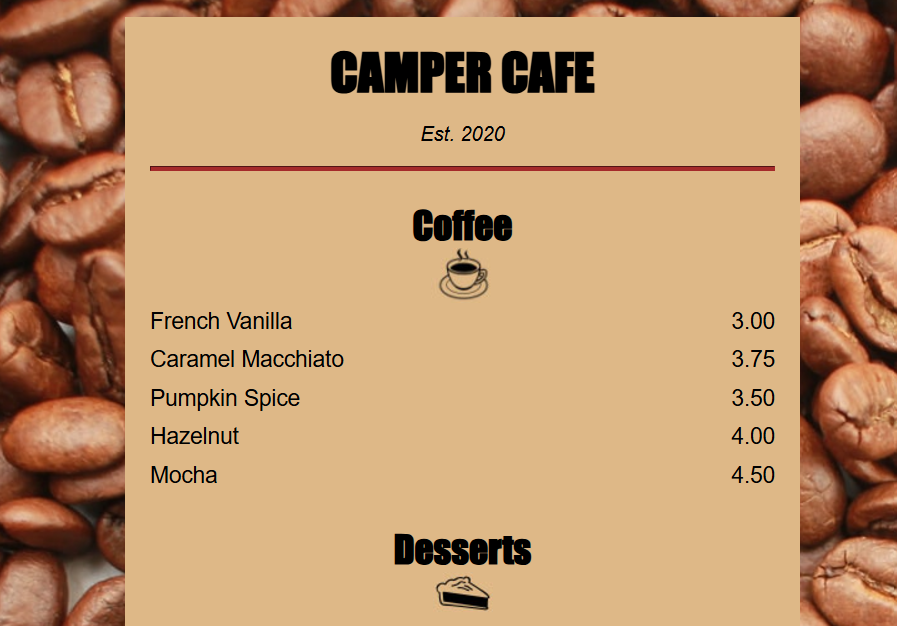
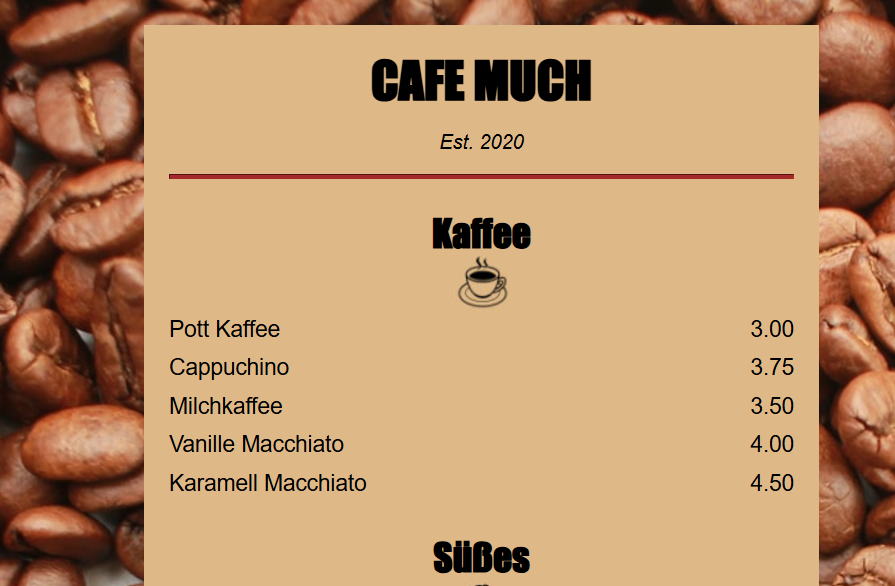
Add files via upload

diff --git a/public/FreeCodeCamp/2. Cafe Menu/index.html b/public/FreeCodeCamp/2. Cafe Menu/index.html
@@ -1,5 +1,5 @@
 <!DOCTYPE html>
-<html lang="en">
+<html lang="de">
   <head>
     <meta charset="utf-8" />
     <meta name="viewport" content="width=device-width, initial-scale=1.0" />
@@ -9,52 +9,49 @@
   <body>
     <div class="menu">
       <main>
-        <h1>CAMPER CAFE</h1>
+        <h1>CAFE MUCH</h1>
         <p class="established">Est. 2020</p>
         <hr>
         <section>
-          <h2>Coffee</h2>
+          <h2>Kaffee</h2>
           <img src="https://cdn.freecodecamp.org/curriculum/css-cafe/coffee.jpg" alt="coffee icon"/>
           <article class="item">
-            <p class="flavor">French Vanilla</p><p class="price">3.00</p>
+            <p class="flavor">Pott Kaffee</p><p class="price">3.00</p>
           </article>
           <article class="item">
-            <p class="flavor">Caramel Macchiato</p><p class="price">3.75</p>
+            <p class="flavor">Cappuchino</p><p class="price">3.75</p>
           </article>
           <article class="item">
-            <p class="flavor">Pumpkin Spice</p><p class="price">3.50</p>
+            <p class="flavor">Milchkaffee</p><p class="price">3.50</p>
           </article>
           <article class="item">
-            <p class="flavor">Hazelnut</p><p class="price">4.00</p>
+            <p class="flavor">Vanille Macchiato</p><p class="price">4.00</p>
           </article>
           <article class="item">
-            <p class="flavor">Mocha</p><p class="price">4.50</p>
+            <p class="flavor">Karamell Macchiato</p><p class="price">4.50</p>
           </article>
         </section>
         <section>
-          <h2>Desserts</h2>
+          <h2>Süßes</h2>
           <img src="https://cdn.freecodecamp.org/curriculum/css-cafe/pie.jpg" alt="pie icon"/>
           <article class="item">
-            <p class="dessert">Donut</p><p class="price">1.50</p>
+            <p class="dessert">Muffin</p><p class="price">1.50</p>
           </article>
           <article class="item">
-            <p class="dessert">Cherry Pie</p><p class="price">2.75</p>
+            <p class="dessert">Kirschstreusel</p><p class="price">2.75</p>
           </article>
           <article class="item">
-            <p class="dessert">Cheesecake</p><p class="price">3.00</p>
+            <p class="dessert">Käsekuchen</p><p class="price">3.00</p>
           </article>
           <article class="item">
-            <p class="dessert">Cinnamon Roll</p><p class="price">2.50</p>
+            <p class="dessert">Zimtschnecke</p><p class="price">2.50</p>
           </article>
         </section>
       </main>
       <hr class="bottom-line">
       <footer>
-        <p>
-          <a href="https://www.freecodecamp.org" target="_blank">Visit our website</a>
-        </p>
-        <p class="address">123 Free Code Camp Drive</p>
-      </footer>
+        <p>© Vincent Lovasz. All rights reserved</p>
+    </footer>
     </div>
   </body>
 </html>

diff --git a/public/FreeCodeCamp/1. cat-photo-app/cat-photo-app.html b/public/FreeCodeCamp/1. cat-photo-app/cat-photo-app.html
@@ -1,0 +1,63 @@
+<!DOCTYPE html>
+
+<html lang="en">
+  <head>
+    <meta charset="utf-8">
+    <title>Frieda & other cats</title>
+  </head>
+  <body>
+    <main>
+      <h1>Frieda & Other Cats</h1>
+      <section>
+        <h2>Cat Photos</h2>
+        <p>Everyone loves <a href="https://www.instagram.com/stories/highlights/17919240554412348/?hl=de">cute cats</a> online!</p>
+        <p>See more <a target="_blank" href="https://www.instagram.com/stories/highlights/17919240554412348/?hl=de">cat photos</a> in our gallery.</p>
+        <a href="https://www.instagram.com/stories/highlights/17919240554412348/?hl=de"><img src="./IMG-20230424-WA0009.jpg" height="250px; alt="A cute orange cat lying on its back."></a>
+      </section>
+      <section>
+        <h2>Cat Lists</h2>
+        <h3>Things Frieda loves:</h3>
+        <ul>
+          <li>cat nip</li>
+          <li>laser pointers</li>
+          <li>lasagna</li>
+        </ul>
+        <figure>
+          <img src="./IMG-20230413-WA0002.jpg" height="250px;" alt="Frieda looking into the camera">
+          <figcaption>Frieda <em>loves</em> interaction.</figcaption>  
+        </figure>
+        <h3>Top 3 things Frieda hate:</h3>
+        <ol>
+          <li>flea treatment</li>
+          <li>thunder</li>
+          <li>other animals</li>
+        </ol>
+        <figure>
+          <img src="https://cdn.freecodecamp.org/curriculum/cat-photo-app/cats.jpg" alt="Five cats looking around a field.">
+          <figcaption>Frieda <strong>hates</strong> other cats.</figcaption>  
+        </figure>
+      </section>
+      <section>
+        <h2>Cat Form</h2>
+        <form action="#">
+          <fieldset>
+            <legend>Is your cat an indoor or outdoor cat?</legend>
+            <label><input id="indoor" type="radio" name="indoor-outdoor" value="indoor" checked> Indoor</label>
+            <label><input id="outdoor" type="radio" name="indoor-outdoor" value="outdoor"> Outdoor</label>
+          </fieldset>
+          <fieldset>
+            <legend>What's your cat's personality?</legend>
+            <input id="loving" type="checkbox" name="personality" value="loving" checked> <label for="loving">Loving</label>
+            <input id="lazy" type="checkbox" name="personality" value="lazy"> <label for="lazy">Lazy</label>
+            <input id="energetic" type="checkbox" name="personality" value="energetic"> <label for="energetic">Energetic</label>
+          </fieldset>
+          <input type="text" name="catphotourl" placeholder="cat photo URL" required>
+          <button type="submit">Submit</button>
+        </form>
+      </section>
+    </main>
+    <footer>
+      <p>© Vincent Lovasz. All rights reserved</p>
+  </footer>
+  </body>
+</html>

diff --git a/public/Udemy/2. Birthday Invite/birthday-invite.html b/public/Udemy/2. Birthday Invite/birthday-invite.html
@@ -1,0 +1,19 @@
+<h1>Birthday Invitation</h1>
+<h2>Date: 20th September 2025</h2>
+
+<!-- Example image URL -->
+<img src="https://i.etsystatic.com/17926805/r/il/36daef/5437351955/il_794xN.5437351955_gqma.jpg" alt="a boy sitting in front of a birthday cake" width="350px">
+
+<h3>What you have to do:</h3>
+<ul>
+    <li>Don't bring a present! Your attendance is the present</li>
+    <li><strong>Come dressed as a historical figure</strong> of your choice! Stay in your role! It can be anyone from a roman emporer to modern figures like Merkel or Trump</li>
+    <li>For the food <strong>tell me about your preferences</strong>, all food and drinks will be vegan. If there is a demand for gluten free or if you have allergies tell me!</li>
+</ul>
+
+<h3>Location</h3>
+<!-- Example Google Maps Link -->
+<a href="https://www.google.com/maps/@35.7040744,139.5577317,3a,75y,289.6h,87.01t,0.72r/data=!3m6!1e1!3m4!1sgT28ssf0BB2LxZ63JNcL1w!2e0!7i13312!8i6656">Link to Maps</a>
+<footer>
+    <p>© Vincent Lovasz. All rights reserved</p>
+</footer>

diff --git a/public/Udemy/1. Movie Ranking/movie-ranking.html b/public/Udemy/1. Movie Ranking/movie-ranking.html
@@ -1,0 +1,21 @@
+<!-- Write your code below -->
+ <h1>The Best Movies according to me</h1>
+ <h2>My top 4 Movies of all time</h2>
+ 
+ <hr>
+
+ <h3>1. Good Will Hunting</h3>
+ <p>This movie influenced me to become a psychologist. I could cry endlessly every time I watch it and I loved Robin Williams so much in it.</p>
+ 
+ <h3>2. Interstellar</h3>
+ <p>Get me hooked everytime. Movies in space always catch me but this is particular thrilling. </p>
+
+ <h3>3.Everything Everywhere All At Once</h3>
+ <p>First time I thought it's all right. Second time I cried my eyes out because I now understand how beatufiul the message is. Be always kind.</p>
+
+ <h3>4. Before Sunrise</h3>
+ <p>A similar story happend to me so it hits very close. Love the dynamic between both actors and it's a heartwarming story!</p>
+
+ <footer>
+    <p>© Vincent Lovasz. All rights reserved</p>
+</footer>

diff --git a/public/Udemy/udemy.html b/public/Udemy/udemy.html
@@ -1,0 +1,21 @@
+<!DOCTYPE html>
+<html lang="de">
+<head>
+    <meta charset="UTF-8">
+    <meta name="viewport" content="width=device-width, initial-scale=1.0">
+    <title>My Udemy Projects</title>
+</head>
+<body>
+    <h1>My Udemy Projects</h1>
+    <hr>
+    <h2><a href="./1. Movie Ranking/movie-ranking.html">Movie Ranking Project</a></h2>
+    <a href="./1. Movie Ranking/movie-ranking.html"><img src="../../assets/images/best-movies.png" height="250px" alt="project-preview movie-ranking"></a>
+    <hr>
+
+    <h2><a href="./2. Birthday Invite/birthday-invite.html">Birthday Invitation Project</a></h2>
+    <a href="./2. Birthday Invite/birthday-invite.html"><img src="../../assets/images/birthday-invite.png" height="250px" alt="project-preview birthdaycard"></a>
+    <footer>
+        <p>© Vincent Lovasz. All rights reserved</p>
+    </footer>
+</body>
+</html>

diff --git a/public/FreeCodeCamp/freecodecamp.html b/public/FreeCodeCamp/freecodecamp.html
@@ -1,0 +1,22 @@
+<!DOCTYPE html>
+<html lang="de">
+<head>
+    <meta charset="UTF-8">
+    <meta name="viewport" content="width=device-width, initial-scale=1.0">
+    <title>My FreeCodeCamp Projects</title>
+</head>
+<body>
+    <h1>My FreeCodeCamp Projects</h1>
+    <hr>
+
+    <h4><a href="./1. cat-photo-app/cat-photo-app.html">Frieda & Cat-Form</a></h4>
+    <a href="./1. cat-photo-app/cat-photo-app.html"> <img src="./1. cat-photo-app/CatPhotoAppPreview.png" alt="preview of project" height="350"></a>
+    <hr>
+
+    <h4><a href="./2. Cafe Menu/index.html">Cafe Menu</a></h4>
+    <a href="./2. Cafe Menu/index.html"><img alt="preview of project" src="./2. Cafe Menu/Cafe Menu.png" height="200px" width="250"></a>
+    <footer>
+        <p>© Vincent Lovasz. All rights reserved</p>
+    </footer>
+</body>
+</html>

diff --git a/index.html b/index.html
@@ -44,8 +44,8 @@
     <hr>
 
     <h2>Programming Projects</h2>
-    <h3><a href="./public/udemy.html">Udemy Projects</a></h3>
-    <h3><a href="./public/freecodecamp.html">FreeCodeCamp Projects</a></h3>
+    <h3><a href="./public/Udemy/udemy.html">Udemy Projects</a></h3>
+    <h3><a href="./public/FreeCodeCamp/freecodecamp.html">FreeCodeCamp Projects</a></h3>
     <hr>
 
     <h2>Other</h2>

diff --git a/public/about.html b/public/about.html
@@ -16,3 +16,7 @@
 <p>Contact me to find out more. I look forward to every conversation.</p>
   
 <p>Vincent Lovasz</p>
+
+<footer>
+  <p>© Vincent Lovasz. All rights reserved</p>
+</footer>

diff --git a/public/contact.html b/public/contact.html
@@ -7,3 +7,7 @@
   51103 Cologne<br />
   Germany <br />
 </p>
+
+<footer>
+  <p>© Vincent Lovasz. All rights reserved</p>
+</footer>
